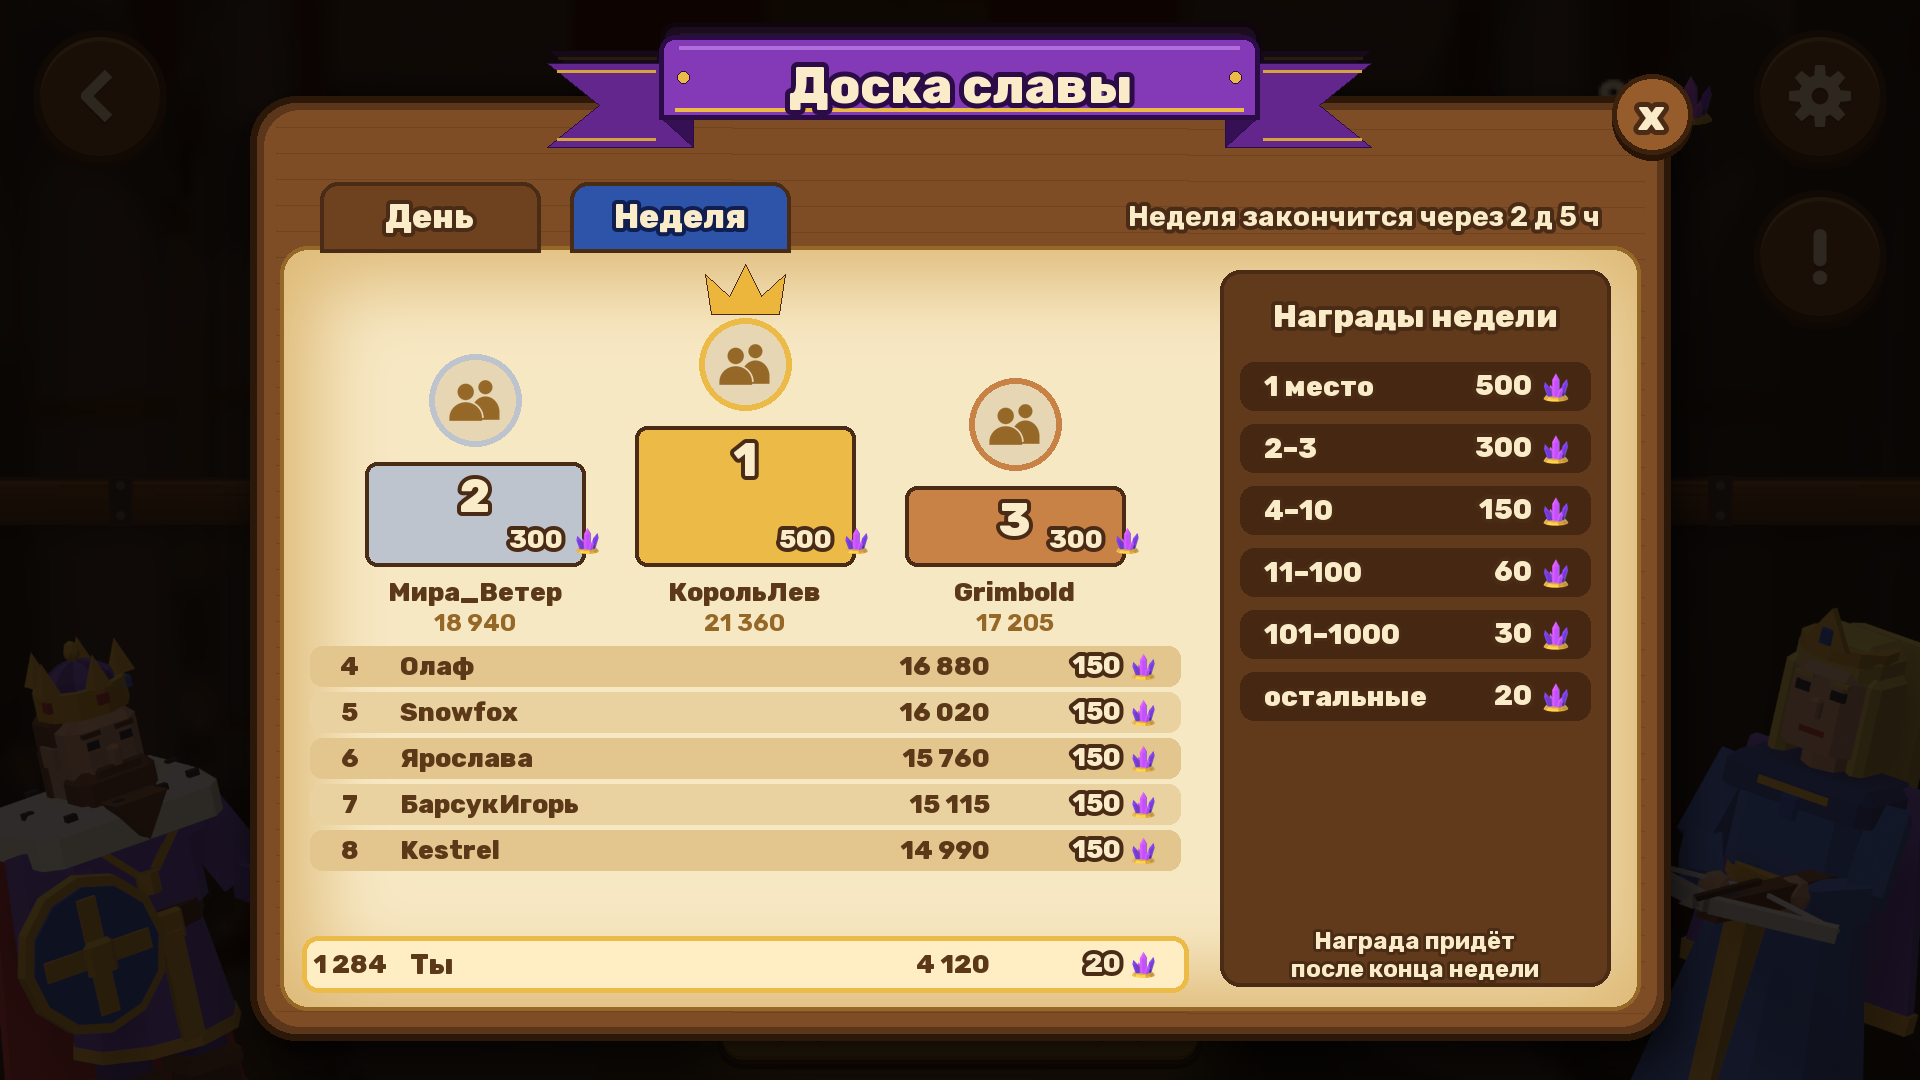
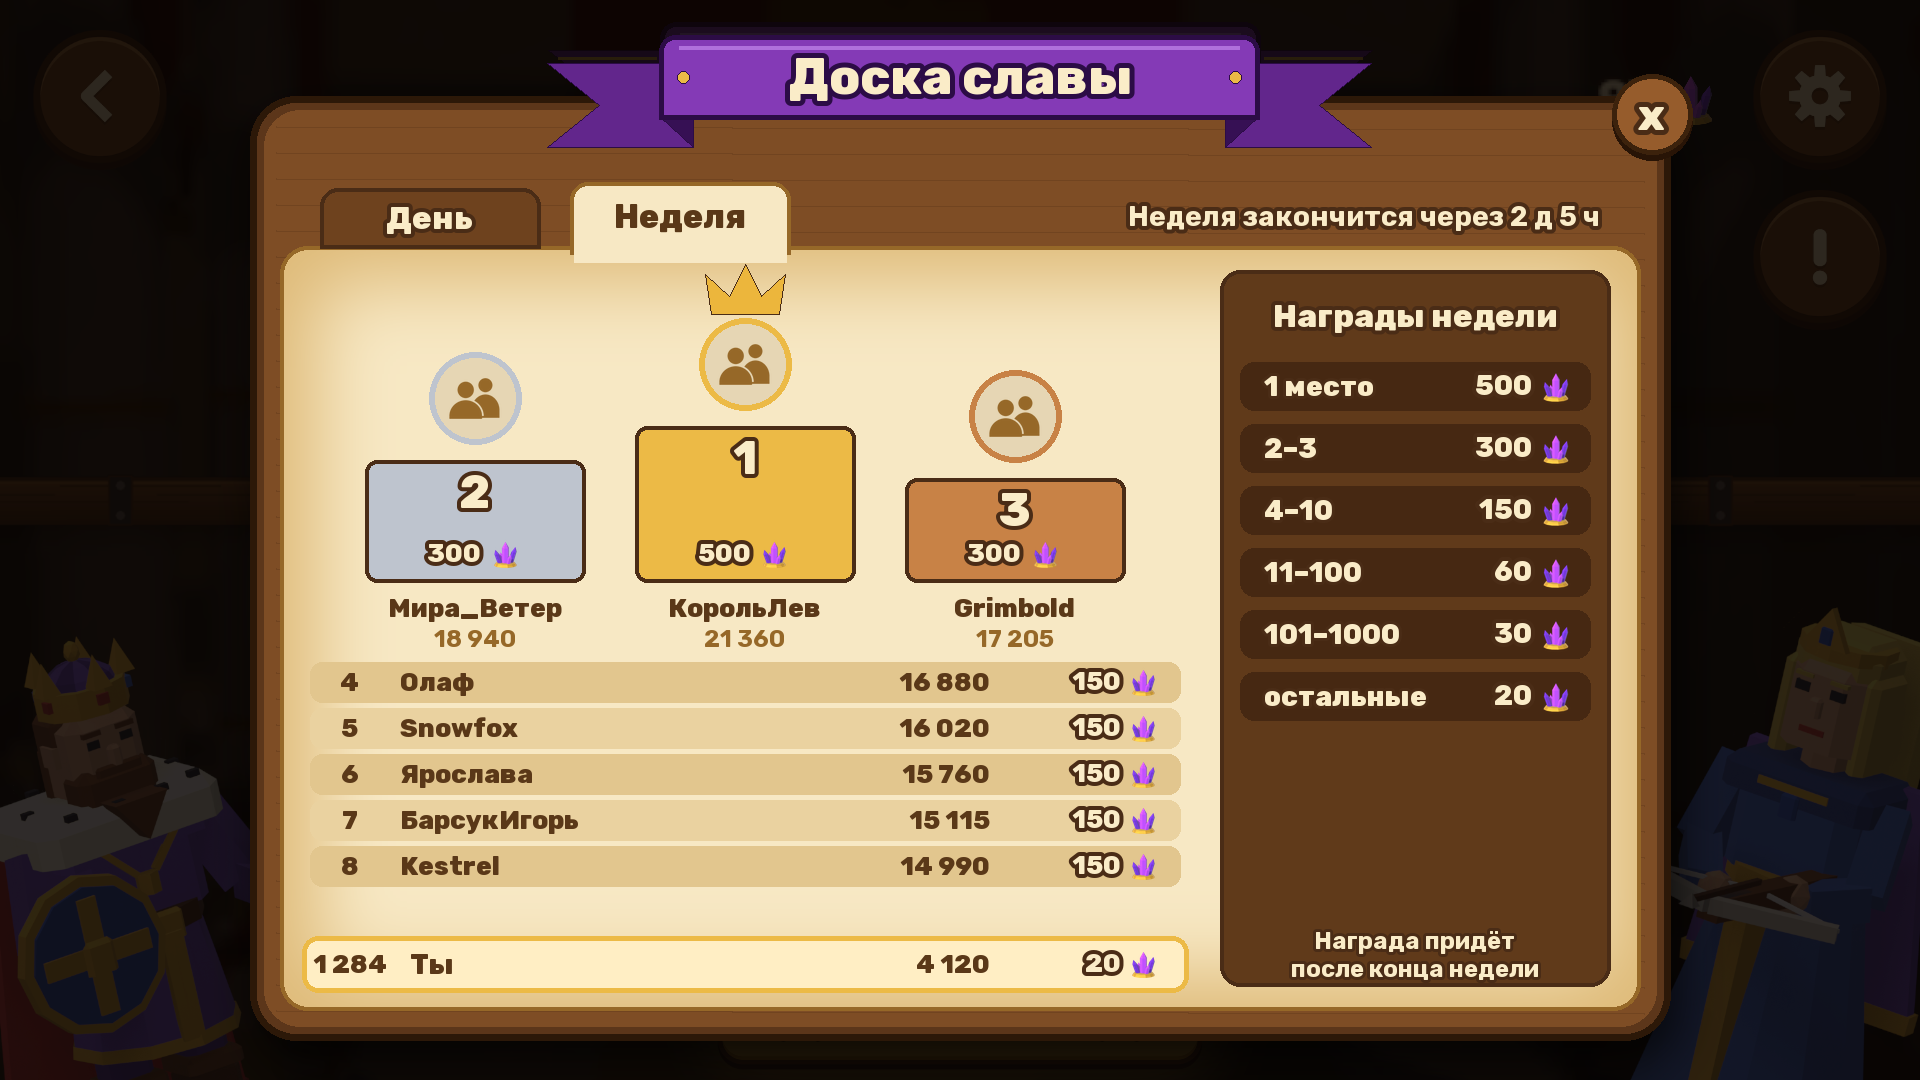
Invasion rating mock-ups v3 + the ribbon without its extra stripes, title centred

Changed region(s): [[0.1562, 0.3361, 0.625, 0.825], [0.1562, 0.1528, 0.4375, 0.2444], [0.375, 0.0306, 0.625, 0.1222]]

diff --git a/Tools/ui/invasion_rating_mockup.py b/Tools/ui/invasion_rating_mockup.py
@@ -19,6 +19,7 @@ import invasion_hall_art as a  # noqa: E402
 from menu_shop_mockup import W, H, R, INK, CREAM, GOLD, GOLD_D, text, put, crystal, glow, font  # noqa: E402
 
 OUT = R + 'Design/ui/'
+SCRATCH = os.environ.get('TEMP', '/tmp').replace('\\', '/') + '/'
 SHOT = R + 'playtest_shots/inv_hall.png'
 PURPLE, PURPLE_D = (132, 58, 182), (44, 12, 70)
 LEFT, RIGHT = W / 2 - 400, W / 2 + 400
@@ -104,7 +105,15 @@ def medallion(img, cx):
 
 def hall_mockup():
     img = Image.open(SHOT).convert('RGBA')
-    murk(img, (290, 528, 1630, 1080))
+    murk(img, (290, 522, 1630, 1080))
+    a.OUT, keep = SCRATCH, a.OUT
+    a.BANNERS, old = [(LEFT, None), (RIGHT, None)], a.BANNERS
+    a.layout['pieces'] = []
+    a.beam()
+    a.OUT, a.BANNERS = keep, old
+    r = a.layout['pieces'][-1]['rect']
+    beam = Image.open(SCRATCH + 'InvHall_Beam.png').convert('RGBA')
+    img.alpha_composite(beam.crop((max(0, -int(r[0])), 0, max(0, -int(r[0])) + W, beam.height)), (0, int(r[1])))
     # the two banners, wider apart: the day picked (big), the week small
     for cx, col, big, title, pts in ((LEFT, (178, 44, 36), True, 'День', '4 120'), (RIGHT, (46, 84, 170), False, 'Неделя', '10 190')):
         size = a.BIG if big else a.SMALL
@@ -137,6 +146,9 @@ def hall_mockup():
             text(d, (cx, T + 140), 'нажми, чтобы открыть', 22, stroke=3, stroke_fill=dark, heavy=False)
     medallion(img, W / 2)
     fight(img)
+    # the title's ribbon as it now is (the shot has the old one)
+    img.alpha_composite(a.ribbon())
+    text(ImageDraw.Draw(img), (W / 2, 64), 'Нашествие', 58, stroke=5, stroke_fill=PURPLE_D)
     img.convert('RGB').save(OUT + 'InvasionRating_Hall.png')
 
 
@@ -168,28 +180,35 @@ def window_mockup():
     rib = rib.crop(rib.getbbox())
     put(img, rib, (W / 2, box[1] - 4))
     d = ImageDraw.Draw(img)
-    text(d, (W / 2, box[1] - 10), 'Доска славы', 50, stroke=5, stroke_fill=PURPLE_D)
+    text(d, (W / 2, box[1] - 4 - (rib.height / 2 - 42)), 'Доска славы', 50, stroke=5, stroke_fill=PURPLE_D)
     c.round_button(img, (box[2] - 18, box[1] + 18), 40, '✕' if False else 'x')
     # the tabs and the timer
     tabs = (('День', False), ('Неделя', True))
     for i, (name, on) in enumerate(tabs):
         x = inner[0] + 150 + i * 250
         y0 = inner[1] - 64
-        d.rounded_rectangle((x - 110, y0, x + 110, y0 + 70), 18, fill=(46, 84, 170) if on else (110, 66, 30), outline=INK, width=4,
-                            corners=(True, True, False, False))
-        text(d, (x, y0 + 34), name, 34, stroke=4, stroke_fill=(16, 30, 80) if on else INK)
+        if on:
+            d.rounded_rectangle((x - 110, y0, x + 110, y0 + 72), 18, fill=c.PARCH, outline=(150, 104, 40), width=4,
+                                corners=(True, True, False, False))
+            d.rectangle((x - 106, y0 + 40, x + 106, y0 + 80), fill=c.PARCH)
+            text(d, (x, y0 + 34), name, 34, fill=(90, 56, 24), stroke=0)
+        else:
+            d.rounded_rectangle((x - 110, y0 + 6, x + 110, y0 + 66), 18, fill=(110, 66, 30), outline=INK, width=4,
+                                corners=(True, True, False, False))
+            text(d, (x, y0 + 36), name, 32, stroke=4)
     text(d, (inner[2] - 40, inner[1] - 30), 'Неделя закончится через 2 д 5 ч', 28, fill=CREAM, stroke=4, anchor='rm', heavy=False)
     # the podium: the top three with their crowns, points and prizes
     ink = (90, 56, 24)
     lx0, lx1 = inner[0] + 30, inner[0] + 900
-    pod_cx, base = (lx0 + lx1) / 2, inner[1] + 320
-    places = ((2, 'Мира_Ветер', '18 940', '300', (190, 196, 206), 104), (1, 'КорольЛев', '21 360', '500', (236, 186, 70), 140),
-              (3, 'Grimbold', '17 205', '300', (200, 130, 70), 80))
+    pod_cx, base = (lx0 + lx1) / 2, inner[1] + 336
+    places = ((2, 'Мира_Ветер', '18 940', '300', (190, 196, 206), 122), (1, 'КорольЛев', '21 360', '500', (236, 186, 70), 156),
+              (3, 'Grimbold', '17 205', '300', (200, 130, 70), 104))
     for i, (place, name, pts, prize, col, h) in enumerate(places):
         x = pod_cx + (i - 1) * 270
         d.rounded_rectangle((x - 110, base - h, x + 110, base), 12, fill=col, outline=INK, width=4)
-        text(d, (x, base - h + 34), str(place), 46, stroke=4)
-        gem_amount(img, d, (x + 34, base - 26), prize, 26, anchor_right=False, fill=CREAM)
+        text(d, (x, base - h + 32), str(place), 46, stroke=4)
+        tw = d.textlength(prize, font=font(26))
+        gem_amount(img, d, (x - (tw + 8 + 34) / 2, base - 28), prize, 26, anchor_right=False, fill=CREAM)
         d = ImageDraw.Draw(img)
         top = base - h - 12
         d.ellipse((x - 46, top - 96, x + 46, top - 4), fill=(230, 214, 180), outline=col, width=6)

diff --git a/Tools/ui/invasion_hall_art.py b/Tools/ui/invasion_hall_art.py
@@ -81,13 +81,10 @@ def ribbon():
     for side, bx in ((-1, x0), (1, x1)):
         d.polygon([(bx + side * reach, y0 + drop), (bx - side * under, y0 + drop), (bx - side * under, y1 + drop),
                    (bx + side * reach, y1 + drop), (bx + side * notch, my)], fill=tail, outline=edge)
-        for y in (y0 + drop + 8, y1 + drop - 8):
-            d.line([(bx + side * (reach - 10), y), (bx + side * 4, y)], fill=(214, 164, 60), width=3)
     for side, bx in ((-1, x0), (1, x1)):
         d.polygon([(bx, y1 - 3), (bx - side * under, y1 - 3), (bx - side * under, y1 + drop)], fill=fold, outline=edge)
     d.rounded_rectangle((x0, y0, x1, y1), 16, fill=band, outline=edge, width=5, corners=(True, True, False, False))
     d.line((x0 + 20, y0 + 12, x1 - 20, y0 + 12), fill=light, width=4)
-    d.line((x0 + 16, y1 - 10, x1 - 16, y1 - 10), fill=(236, 186, 70), width=4)
     for x in (x0 + 24, x1 - 24):
         d.ellipse((x - 6, (y0 + y1) / 2 - 6, x + 6, (y0 + y1) / 2 + 6), fill=(236, 186, 70), outline=edge)
     return lay
@@ -243,7 +240,7 @@ def main():
     vignette()
     # the ribbon (its words are the game's)
     save('Ribbon', ribbon())
-    box_text('Title', (W / 2 - 280, 24, W / 2 + 280, 112))
+    box_text('Title', (W / 2 - 280, 20, W / 2 + 280, 104))
     # the gilt frame with its hole for the theme's picture, its brass plate, the seals' shelf
     lay = c.layer()
     lay = c.shadowed(lay, (PX0 - 24, PY0 - 24, PX0 + PW + 24, PY0 + PH + 24), 8, 16, 160, (6, 14))

diff --git a/Design/features/invasion-mode.md b/Design/features/invasion-mode.md
@@ -205,4 +205,4 @@ Playtest fixes: `TheKing_LetGo_GoesBackToGuardTheBase`, `WaveOrcs_AreTougher_And
 **Menu hub redesign (the user, 2026-11-16: «мне не нравится окно режима Нашествие, хочу ... другую концепцию»):** three concepts drawn by `Tools/ui/invasion_hub_concepts.py` -> `Design/ui/InvasionHub_A/B/C.png`: A «Военный совет» (war table: the theme as a gilt painting + season seals, a scroll «Доска славы» with day/week/month bookmarks, red «В бой!»), B «Зал знамён» (the modes screen carried on: theme strip, three period banners on a beam -- all periods at once, the picked one hangs low and lit), C «Ночь осады» (plague/fire banner look: night field with the horde's torches, parchment with seals, a period switch, a 1-2-3 podium «скоро», the best runs as wave shields, «Защищать замок»). Sent, NOT picked yet; the game still has the old hub (`SetupProjectMainMenuScreens.BuildInvasionScreen`).
 The user picked B «Зал знамён» (2026-11-16) and answered: background = a CASTLE HALL (arches, pillars, torches, plank floor, carpet); themes = the painting + seals (bigger, the season on a brass plate); banners = EVERYTHING on the picked one (points, 5 runs with waves, «Ты / место -- скоро»), the others only their points; the GOLD «В бой!» button. Mock-up v2 `Design/ui/InvasionHub_B2.png` (`concept_b2`) APPROVED («Утверждаю», 2026-11-16) and BUILT the same day, not seen in the game: `Tools/ui/invasion_hall_art.py` cuts the mock-up into `Assets/_Project/UI/MenuArt/InvHall_*.png` + `InvHall_layout.json` (1920x1080 rects, y down); `SetupProjectMainMenuScreens.BuildInvasionScreen` places them (hall envelopes the screen; picture under the gilt frame; season plate `#theme_<id>`; 5 wax seals = ThemePicker buttons with the game's Theme glyphs; 3 banners each Big+Glow+Details / Small+Hint, a tap area -> `SelectPeriod`); `UI/InvasionHubController` toggles them. The rows show rank + POINTS only: the records keep no wave numbers (the mock-up's «волна N» is not in the game). New keys `#theme_*`, `#invasion_place_soon`, `#invasion_banner_open` (sheet tab «Тексты: интерфейс и меню»). Moving a piece = edit the script's constants, re-run it, then setup. **Round 2 (the user, 2026-11-17), BUILT, not seen in the game:** background = mission 2's 3D THRONE ROOM (`M2ThroneSet.fbx`, far at 3000,0,3000) by `UI/InvasionHallBackdrop` (own camera, two warm point lamps, slow there-and-back flight 32 s + sway; renders 360 rows -> halved blit -> stretched RawImage = the blur; tint 0.24 + `InvHall_Vignette` = the dark; the menu camera's cullingMask is 0 while the screen is fully up); the flat `InvHall_Back` deleted. Ribbon redrawn (notched tails folded behind and lower, fold triangles, gold hems). Crystals = plaque + number + bare crystal (Gem), no disc. Banners: folds, lattice, gold border + studs, stitched hem, fringe, tip medallion + tassel, turned pole with gold knobs and tassel cords; they HANG on iron chains (HANG 110 from the middle, same for big/small) from eyes on a wood+iron beam that runs past both screen edges (2600 wide). Big banner's tip slightly under «В бой» when the week is open. **Round 3 (2026-11-17), BUILT, not seen:** ribbon rebuilt the plague/fire banners' way (square bottom corners, fold triangle from the corner inward+down to the tail, tails behind and lower); crystals = cream number + crystal, no plate, anchored top-right left of the settings; «!» = a Corner button under the settings, the same size (140); «В бой» has crossed `Glyphs/Swords.png` at both ends, a gold glow `InvHall_ButtonGlow` behind and `UI/ButtonPulse` (heartbeat swell 5.5 % + glow alpha, unscaled time).
 
-**Online rating DECIDED (the user, 2026-11-17):** Google Play Games leaderboards (not a server of our own): DAY and WEEK only -- the MONTH is removed (GPGS has no month); scores = the period's sum of best runs, sent by the phone; GPGS resets on US Pacific time, so the game must count its periods by the same bounds; rewards are given by the game itself from the player's place read before the reset (cheatable, missed if not online in time -- accepted). Known limits told to the user: Android only, weak anti-cheat. UI: a RATING button between the Day and Week banners opens a «Доска славы» window with places and rewards. Mock-ups `Tools/ui/invasion_rating_mockup.py` -> `Design/ui/InvasionRating_Hall.png` (two banners at 960 -/+ 340, a gold-rimmed purple medallion with laurel + trophy on chains, «Рейтинг» ribbon; the banner's «Ты» line shows the place) and `InvasionRating_Window.png` (Day/Week tabs, timer to the period's end, podium 1-2-3 with crown, list 4.., the player's row pinned at the foot, «Награды недели» tiers 1 / 2-3 / 4-10 / 11-100 / 101-1000 / the rest -- numbers MADE UP, to go to the sheet). Round 2 of the mock-ups (the user: the ribbon and the crown sat on the tabs, the banners on «В бой»; the rating button needs an effect): window ribbon up on the frame's edge, tabs under it, podium lower, 5 list rows; banners at 960 -/+ 400 and «В бой» 400 wide (was 480) so they clear it; the medallion has turning gold RAYS behind, a glow, sparkles, a glint on its rim, and in the game it will sway on its chains and its glint run round. Sent, NOT approved yet; nothing built; GPGS plugin + Play Console leaderboards not set up.
+**Online rating DECIDED (the user, 2026-11-17):** Google Play Games leaderboards (not a server of our own): DAY and WEEK only -- the MONTH is removed (GPGS has no month); scores = the period's sum of best runs, sent by the phone; GPGS resets on US Pacific time, so the game must count its periods by the same bounds; rewards are given by the game itself from the player's place read before the reset (cheatable, missed if not online in time -- accepted). Known limits told to the user: Android only, weak anti-cheat. UI: a RATING button between the Day and Week banners opens a «Доска славы» window with places and rewards. Mock-ups `Tools/ui/invasion_rating_mockup.py` -> `Design/ui/InvasionRating_Hall.png` (two banners at 960 -/+ 340, a gold-rimmed purple medallion with laurel + trophy on chains, «Рейтинг» ribbon; the banner's «Ты» line shows the place) and `InvasionRating_Window.png` (Day/Week tabs, timer to the period's end, podium 1-2-3 with crown, list 4.., the player's row pinned at the foot, «Награды недели» tiers 1 / 2-3 / 4-10 / 11-100 / 101-1000 / the rest -- numbers MADE UP, to go to the sheet). Round 2 of the mock-ups (the user: the ribbon and the crown sat on the tabs, the banners on «В бой»; the rating button needs an effect): window ribbon up on the frame's edge, tabs under it, podium lower, 5 list rows; banners at 960 -/+ 400 and «В бой» 400 wide (was 480) so they clear it; the medallion has turning gold RAYS behind, a glow, sparkles, a glint on its rim, and in the game it will sway on its chains and its glint run round. Round 3: the old third banner's chains/eyes wiped (the mock-up redraws the beam with eyes for two); the ribbon (game + window) lost its tail stripes and its foot's gold line, the title centred on the band (Title box 20..104 -- in the game art already, rides with the next setup); the picked tab is the table's parchment, joined to it; the podium prize centred on its block, blocks taller. Sent, NOT approved yet; nothing built; GPGS plugin + Play Console leaderboards not set up.
